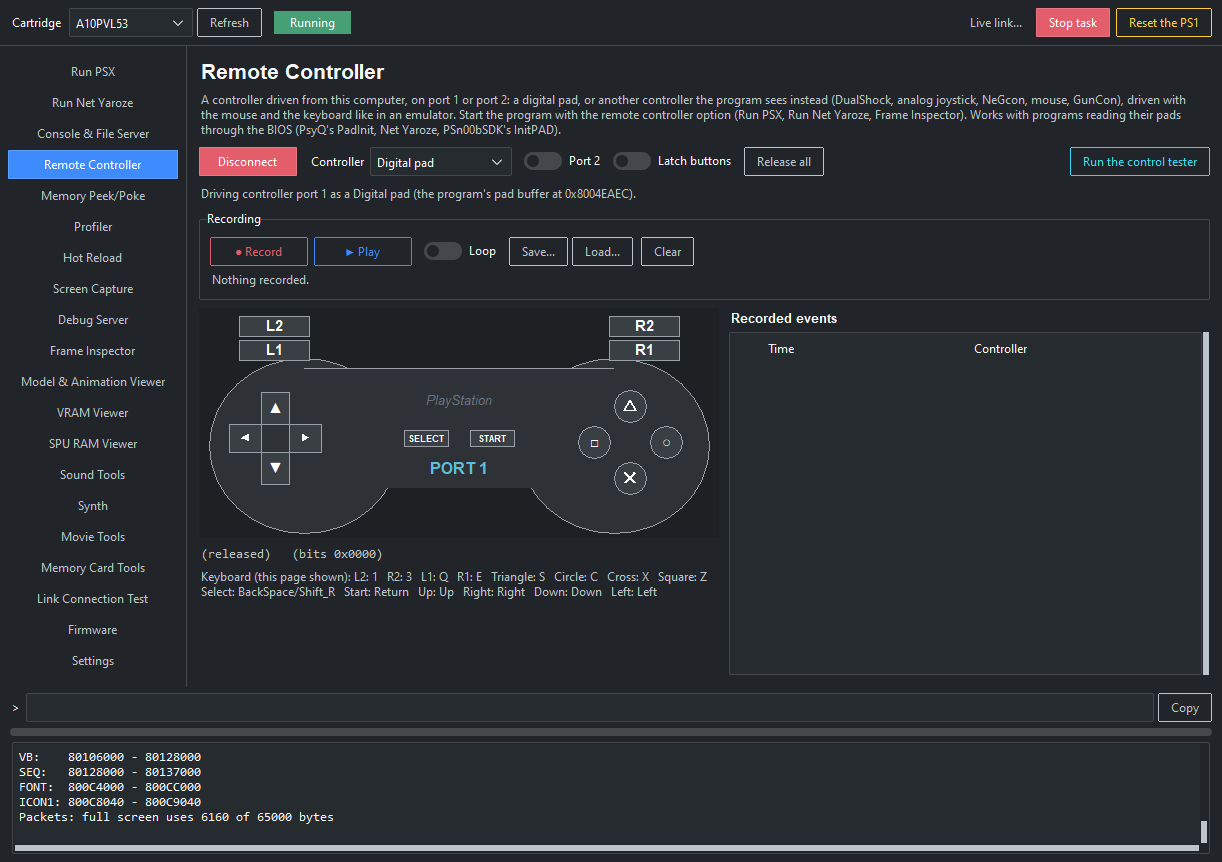
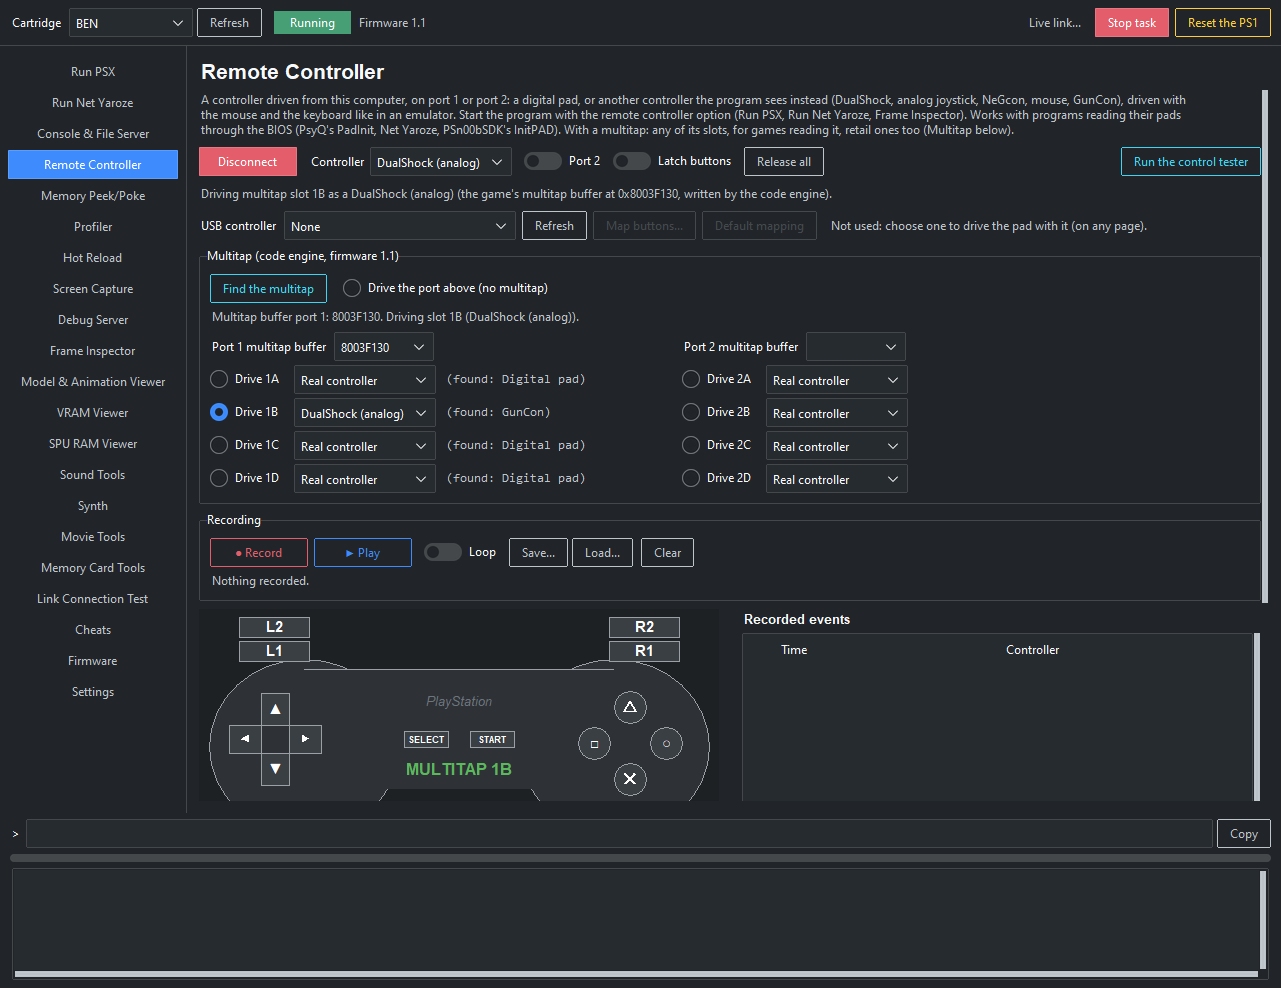
README: Remote Controller screenshot with the multitap

diff --git a/README.md b/README.md
@@ -134,10 +134,10 @@ The firmware and all the PlayStation programs are built with the open source
   <img src="screenshots/manager/console.png" alt="The program's printf, and the files it opens on the computer." width="100%">
 </p>
 
-**Remote Controller**: A controller driven from this computer on port 1, while the program runs.
+**Remote Controller**: Controllers driven from this computer: here a DualShock in slot 1B of a multitap, in a retail game (FIFA 99), next to the real controllers.
 
 <p align="center">
-  <img src="screenshots/manager/remote.png" alt="A controller driven from this computer on port 1, while the program runs." width="100%">
+  <img src="screenshots/manager/remote.png" alt="Controllers driven from this computer: here a DualShock in slot 1B of a multitap, in a retail game (FIFA 99), next to the real controllers." width="100%">
 </p>
 
 **Memory Peek/Poke**: Watch variables: the variables of a running game, read live by their symbol name.
